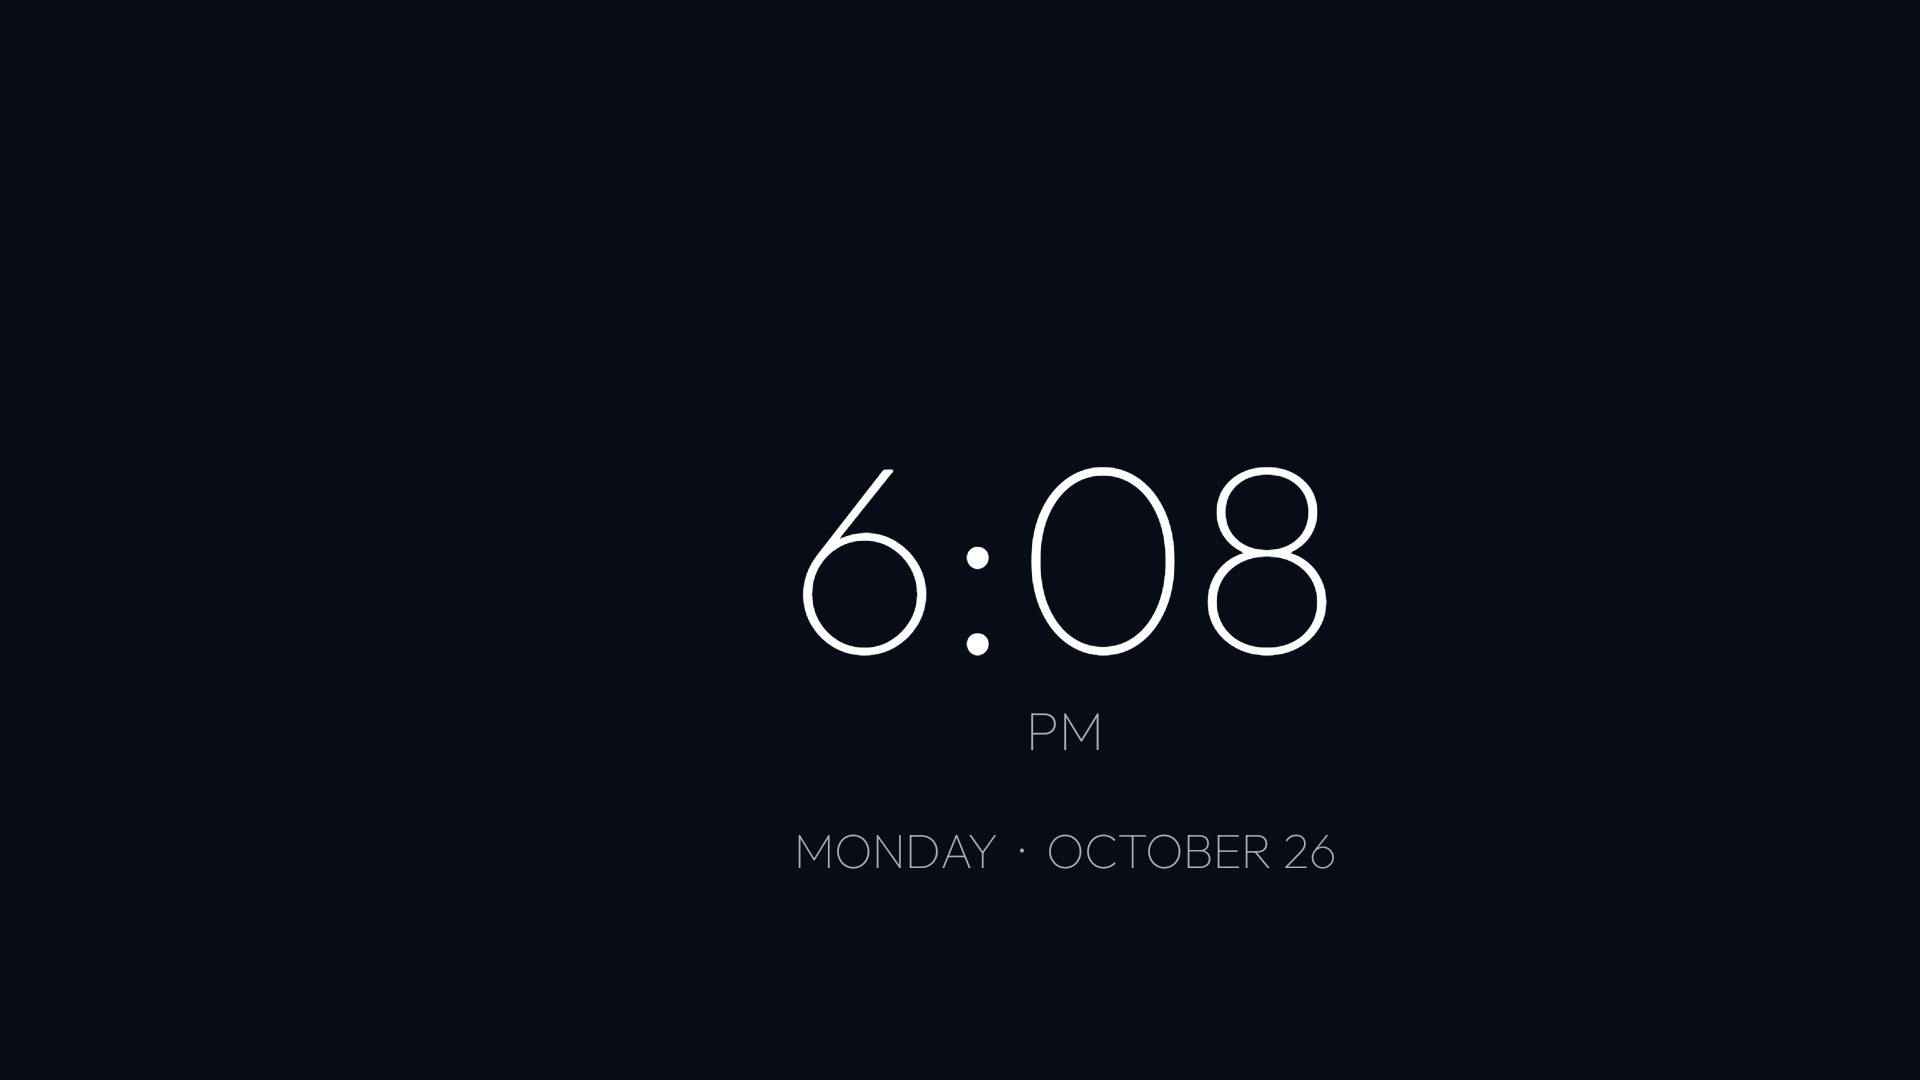
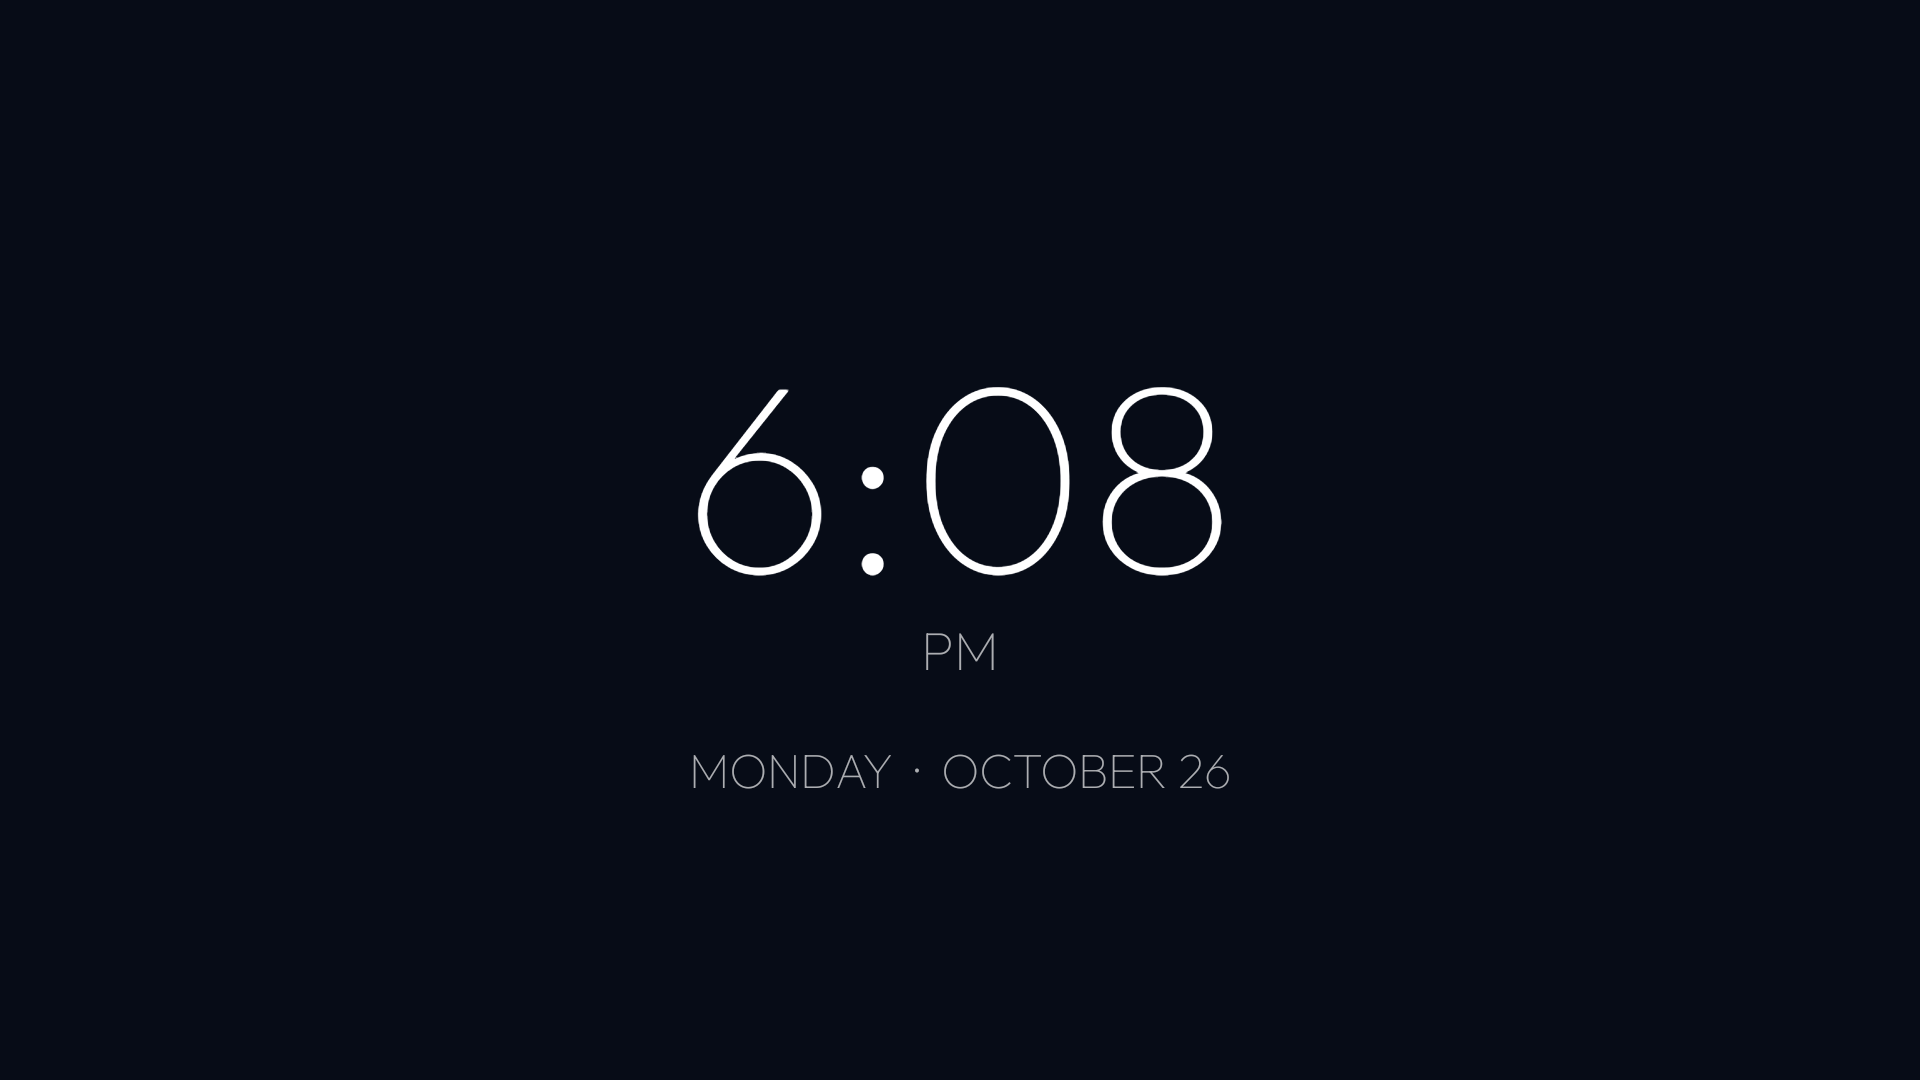
v0.5.4: rename to Clean TV (#5)
- App label "Clean TV", README title, release APK clean-tv-vX.Y.Z.apk, Gradle project CleanTV
- Links point at hunterbrewer04/clean-tv (old URLs redirect)
- Package ID unchanged, so it updates in place and keeps the saved tile order
- build-release.sh: signing settings from SIGNING_PROPERTIES only (default ~/Android/signing/clean-tv.properties)
- Social preview with the new name; screensaver screenshot re-centered for the README

diff --git a/README.md b/README.md
@@ -1,21 +1,21 @@
-# Living Room Launcher
+# Clean TV
 
-[![CI](https://github.com/hunterbrewer04/living-room-launcher/actions/workflows/ci.yml/badge.svg)](https://github.com/hunterbrewer04/living-room-launcher/actions/workflows/ci.yml)
-[![Latest release](https://img.shields.io/github/v/release/hunterbrewer04/living-room-launcher)](https://github.com/hunterbrewer04/living-room-launcher/releases/latest)
+[![CI](https://github.com/hunterbrewer04/clean-tv/actions/workflows/ci.yml/badge.svg)](https://github.com/hunterbrewer04/clean-tv/actions/workflows/ci.yml)
+[![Latest release](https://img.shields.io/github/v/release/hunterbrewer04/clean-tv)](https://github.com/hunterbrewer04/clean-tv/releases/latest)
 [![Android TV 6.0+](https://img.shields.io/badge/Android%20TV-6.0%2B-3DDC84?logo=android&logoColor=white)](#compatibility)
 [![License: MIT](https://img.shields.io/badge/license-MIT-blue)](LICENSE)
 
 A small, ad-free home screen for Google TV and Android TV, plus reversible ADB scripts to switch the stock home screen off and clear out preinstalled bloat. It works on any brand. The home screen is just the launcher, and the scripts figure out the rest per device.
 
-![Living Room Launcher home screen on a TCL Google TV](docs/screenshots/home.png)
+![Clean TV home screen on a TCL Google TV](docs/screenshots/home.png)
 
 | Hold OK on an app | Inputs menu | Clock screensaver |
 |---|---|---|
 | ![App menu with Move and Uninstall](docs/screenshots/app-menu.png) | ![Inputs menu listing HDMI 1-3, AV, Live TV and All sources](docs/screenshots/inputs.png) | ![Clock screensaver](docs/screenshots/screensaver.png) |
 
-<sub>Real screenshots from a TCL Google TV, taken over ADB.</sub>
+<sub>Real screenshots from a TCL Google TV, taken over ADB. The screensaver shot is re-centered; on the TV it drifts slowly to protect the panel.</sub>
 
-**[Download the latest APK](https://github.com/hunterbrewer04/living-room-launcher/releases/latest)** · [What's new](CHANGELOG.md)
+**[Download the latest APK](https://github.com/hunterbrewer04/clean-tv/releases/latest)** · [What's new](CHANGELOG.md)
 
 - **No ads, no tracking, no network.** The APK is about 115 KB, pure Kotlin with one custom `View`, and has no third-party runtime libraries. Its only permission is `REQUEST_DELETE_PACKAGES`, which opens the system "Uninstall?" dialog.
 - **Clock, greeting and date header**, with a five-column app grid built from your installed TV apps. Banner art is used when an app has it. Otherwise you get the icon on a color sampled from it.
@@ -69,10 +69,10 @@ This prints the model, the HOME candidates and their priority, the TV inputs, wh
 
 ## 3. Build and install the launcher
 
-Download the signed APK (and its `.sha256`) from [Releases](https://github.com/hunterbrewer04/living-room-launcher/releases/latest) and install it:
+Download the signed APK (and its `.sha256`) from [Releases](https://github.com/hunterbrewer04/clean-tv/releases/latest) and install it:
 
 ```bash
-TV=bedroom APPLY=1 APK=~/Downloads/living-room-launcher-v0.5.3.apk scripts/install.sh
+TV=bedroom APPLY=1 APK=~/Downloads/clean-tv-v0.5.4.apk scripts/install.sh
 ```
 
 If the `.sha256` file sits next to the APK, `install.sh` checks it first. Or build your own (JDK 17 plus an Android SDK with platform 34; see the top of `scripts/build-release.sh` for the signing setup), which installs the newest APK in `dist/`:

diff --git a/CHANGELOG.md b/CHANGELOG.md
@@ -1,9 +1,11 @@
 # Changelog
 
-All notable changes to this project. Versions match the launcher's `versionName`; each one is a git tag, and signed APKs are on [Releases](https://github.com/hunterbrewer04/living-room-launcher/releases).
+All notable changes to this project. Versions match the launcher's `versionName`; each one is a git tag, and signed APKs are on [Releases](https://github.com/hunterbrewer04/clean-tv/releases).
 
-## Unreleased
+## 0.5.4 (2026-10-27)
 
+- **Renamed to Clean TV** (it was "Living Room Launcher", after the first TV it ran on). The app now shows up as "Clean TV", release APKs are `clean-tv-vX.Y.Z.apk`, and the repo moved to `hunterbrewer04/clean-tv`; old links redirect. The package ID (`com.hunterbrewer.livingroomlauncher`) is unchanged, so this installs as a normal update and keeps your tile order.
+- `build-release.sh` reads signing settings from `SIGNING_PROPERTIES` only (the old `LIVING_ROOM_SIGNING_PROPERTIES` fallback is gone).
 - The Android project moved into `launcher/`. The repo root now holds just the app, `scripts/` and `profiles/`. `scripts/build-release.sh` and CI build from the new location; the APK is unchanged.
 - Added `CHANGELOG.md`, `SECURITY.md`, Dependabot for GitHub Actions, and README badges.
 

diff --git a/SECURITY.md b/SECURITY.md
@@ -2,7 +2,7 @@
 
 ## Reporting a vulnerability
 
-Please don't open a public issue. Use **[Report a vulnerability](https://github.com/hunterbrewer04/living-room-launcher/security/advisories/new)** (GitHub private reporting) instead. It goes only to the maintainer, and stays private until a fix is out.
+Please don't open a public issue. Use **[Report a vulnerability](https://github.com/hunterbrewer04/clean-tv/security/advisories/new)** (GitHub private reporting) instead. It goes only to the maintainer, and stays private until a fix is out.
 
 Useful to include: the launcher version, the TV model and Android version, and the steps to reproduce.
 
@@ -21,4 +21,4 @@ Each release lists the APK's SHA-256 next to it (`.sha256` file), and the signin
[1 lines of base64/hex data omitted]
 ```
 
-Check the certificate with `apksigner verify --print-certs living-room-launcher-vX.Y.Z.apk`.
+Check the certificate with `apksigner verify --print-certs clean-tv-vX.Y.Z.apk`.
